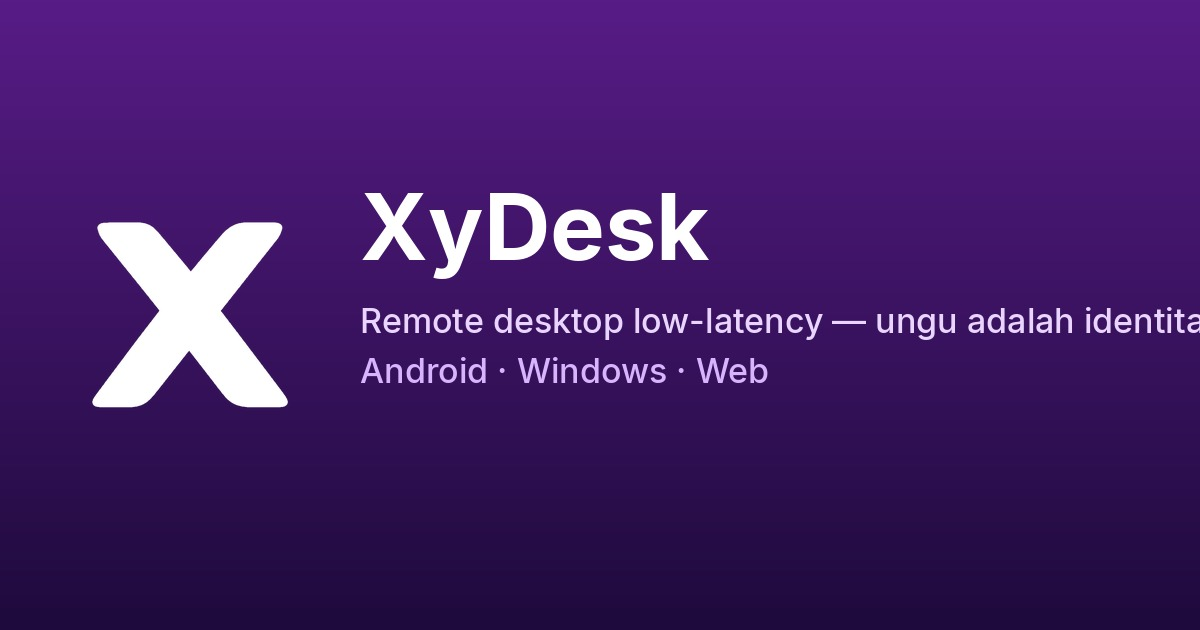
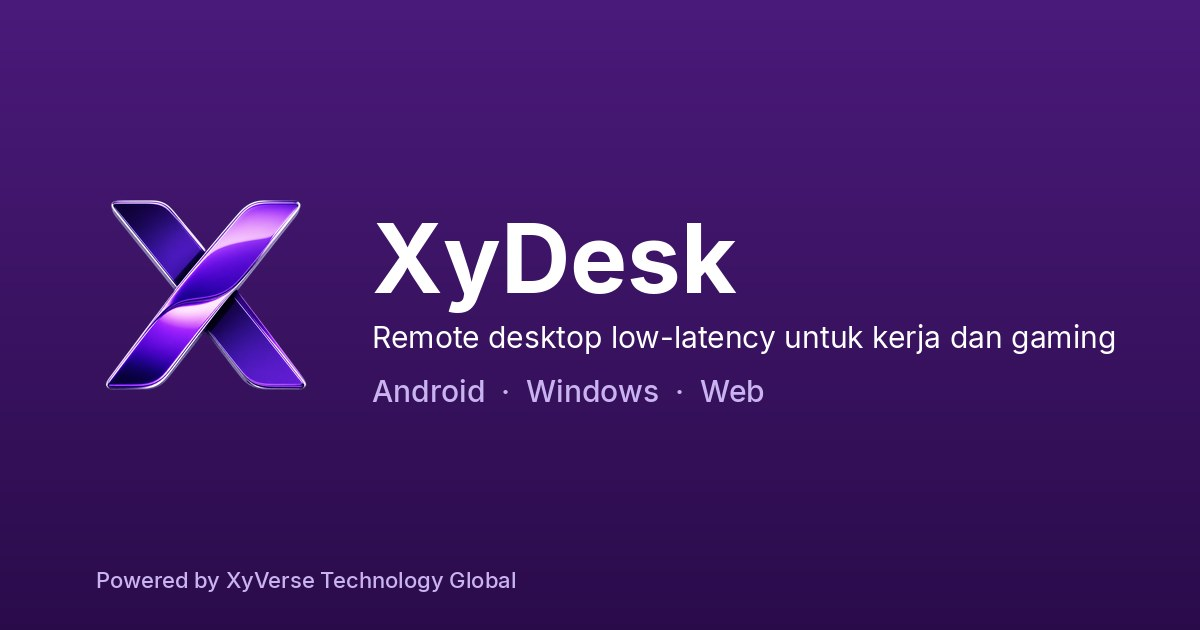
art(web): generator og-image deterministik; tagline tidak terpotong, atribusi XyVerse
Izin: SESI-20260928-LATENCY-HARNESS

Changed region(s): [[0.2775, 0.3016, 1.0, 0.6333], [0.0617, 0.3016, 0.2775, 0.6635], [0.0617, 0.9048, 0.4317, 0.9349]]

diff --git a/tool/art/og_image.py b/tool/art/og_image.py
@@ -1,0 +1,81 @@
+#!/usr/bin/env python3
+"""Render web/public/og-image.jpg (1200x630) dari logo + font Inter repo.
+
+Deterministik: jalankan ulang menghasilkan gambar yang sama, sehingga
+perubahan teks/brand cukup di sini, bukan di editor gambar.
+"""
+from pathlib import Path
+
+from PIL import Image, ImageDraw, ImageFont
+
+ROOT = Path(__file__).resolve().parents[2]
+LOGO = ROOT / 'assets' / 'img' / 'logo.png'
+FONTS = ROOT / 'assets' / 'fonts'
+OUT = ROOT / 'web' / 'public' / 'og-image.jpg'
+
+W, H = 1200, 630
+TOP, BOTTOM = (0x4A, 0x1A, 0x7A), (0x2A, 0x0B, 0x4A)
+WHITE = (255, 255, 255)
+LILAC = (0xC9, 0xB3, 0xF0)
+
+TITLE = 'XyDesk'
+TAGLINE = 'Remote desktop low-latency untuk kerja dan gaming'
+PLATFORMS = 'Android  ·  Windows  ·  Web'
+BRAND = 'Powered by XyVerse Technology Global'
+
+
+def gradient() -> Image.Image:
+    img = Image.new('RGB', (W, H))
+    px = img.load()
+    for y in range(H):
+        t = y / (H - 1)
+        row = tuple(round(a + (b - a) * t) for a, b in zip(TOP, BOTTOM))
+        for x in range(W):
+            px[x, y] = row
+    return img
+
+
+def font(name: str, size: int) -> ImageFont.FreeTypeFont:
+    return ImageFont.truetype(str(FONTS / f'Inter-{name}.ttf'), size)
+
+
+def fit(draw: ImageDraw.ImageDraw, text: str, name: str, size: int, max_w: int) -> ImageFont.FreeTypeFont:
+    while size > 12:
+        f = font(name, size)
+        if draw.textlength(text, font=f) <= max_w:
+            return f
+        size -= 2
+    return font(name, size)
+
+
+def main() -> None:
+    img = gradient().convert('RGBA')
+    draw = ImageDraw.Draw(img)
+
+    logo = Image.open(LOGO).convert('RGBA')
+    logo.thumbnail((220, 220), Image.LANCZOS)
+    lx, ly = 96, (H - logo.height) // 2 - 20
+    img.alpha_composite(logo, (lx, ly))
+
+    x = lx + logo.width + 56
+    max_w = W - x - 72
+    f_title = font('Bold', 96)
+    f_tag = fit(draw, TAGLINE, 'Regular', 34, max_w)
+    f_plat = fit(draw, PLATFORMS, 'Medium', 30, max_w)
+    f_brand = fit(draw, BRAND, 'Medium', 22, W - 2 * 96)
+
+    y = 200
+    draw.text((x, y), TITLE, font=f_title, fill=WHITE)
+    y += 118
+    draw.text((x, y), TAGLINE, font=f_tag, fill=WHITE)
+    y += 54
+    draw.text((x, y), PLATFORMS, font=f_plat, fill=LILAC)
+    draw.text((96, H - 64), BRAND, font=f_brand, fill=LILAC)
+
+    OUT.parent.mkdir(parents=True, exist_ok=True)
+    img.convert('RGB').save(OUT, 'JPEG', quality=88, optimize=True, progressive=True)
+    print(f'ditulis {OUT.relative_to(ROOT)} ({OUT.stat().st_size // 1024} KB)')
+
+
+if __name__ == '__main__':
+    main()
